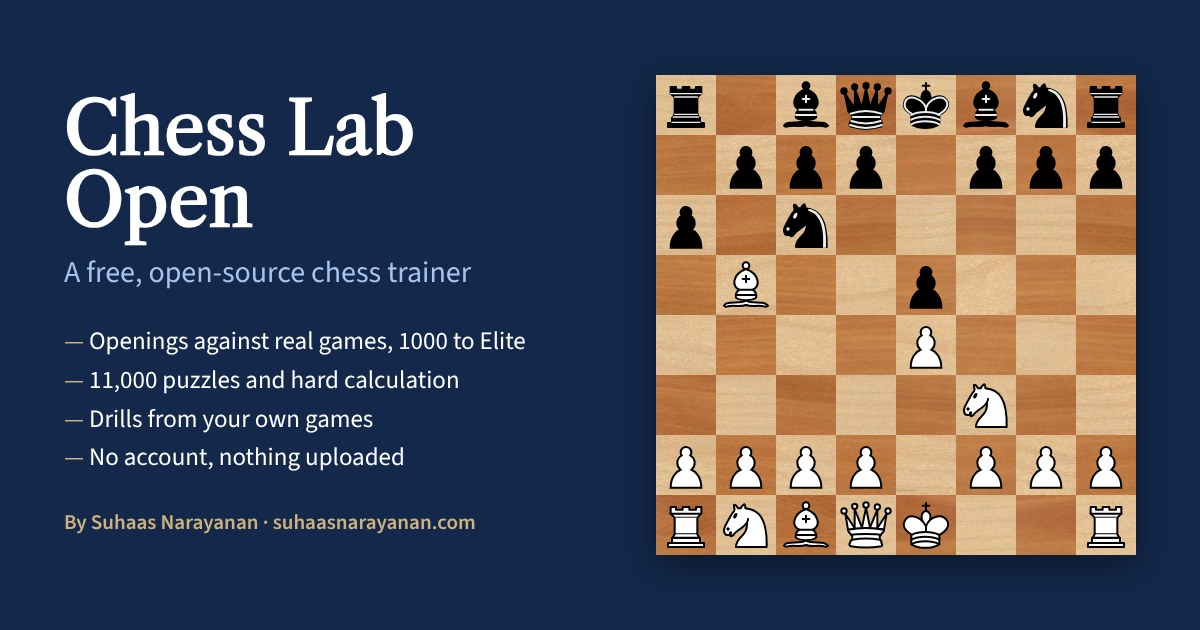
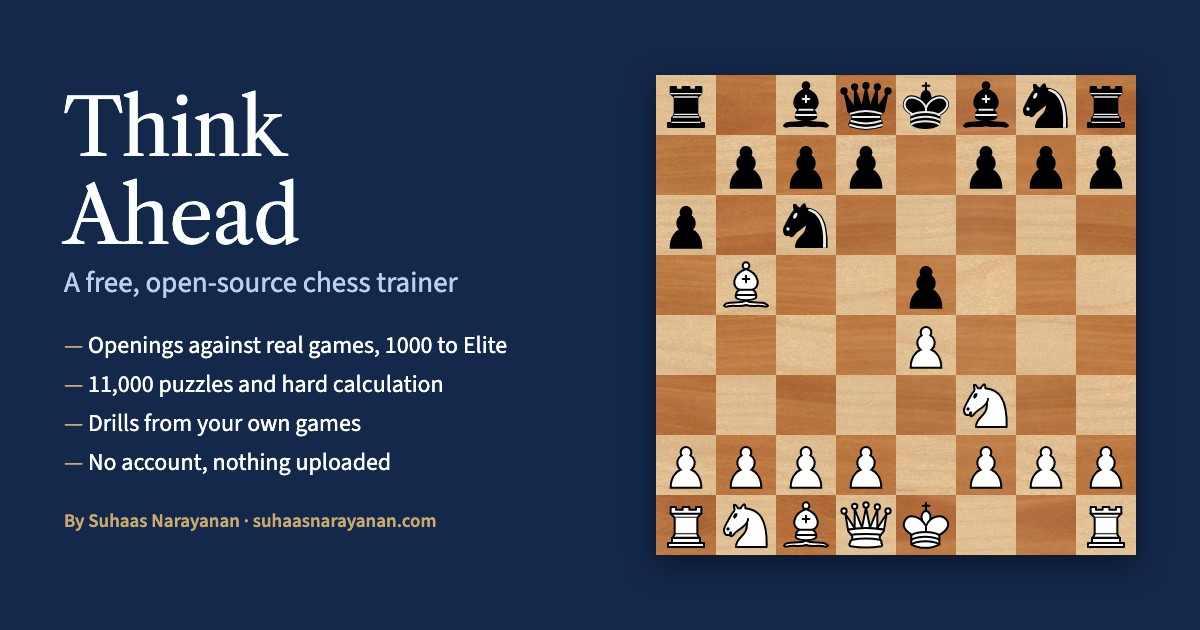
Rename the site to Think Ahead (what visitors see)
The page title, header, welcome card, tab titles, About and privacy
policy, share tags and link-preview image, the Play PGN tags, the import
error, README/PARITY, and the tests that check the name.

Kept: every storage key and the export format (_app 'chess-lab-open',
clo-* keys, the export filename), the /chess-lab-open/ URL, the repo
and workflow names, build_watch_sets output, LICENSE/CREDITS notices,
and mentions of the private Chess Lab. The iPhone backup name already
comes from js/native.js ('Think Ahead'), so it doesn't move.

diff --git a/site/index.html b/site/index.html
@@ -3,22 +3,22 @@
 <head>
 <meta charset="utf-8">
 <meta name="viewport" content="width=device-width,initial-scale=1,viewport-fit=cover">
-<title>Chess Lab Open</title>
+<title>Think Ahead</title>
 <meta name="description" content="A free, open-source chess trainer: openings against real games from 1000 to Elite, 11,000 puzzles, hard calculation, and drills from your own Lichess or Chess.com games. No account, nothing uploaded. By Suhaas Narayanan.">
 <link rel="canonical" href="https://suhaasnarayanan.com/chess-lab-open/">
 <link rel="icon" type="image/svg+xml" href="assets/pieces/cburnett/wN.svg">
 <meta name="theme-color" content="#13284a">
 <meta property="og:type" content="website">
 <meta property="og:site_name" content="Suhaas Narayanan">
-<meta property="og:title" content="Chess Lab Open — a free, open-source chess trainer">
+<meta property="og:title" content="Think Ahead — a free, open-source chess trainer">
 <meta property="og:description" content="Openings against real games from 1000 to Elite, 11,000 puzzles, hard calculation, and drills from your own games. No account, nothing uploaded.">
 <meta property="og:url" content="https://suhaasnarayanan.com/chess-lab-open/">
 <meta property="og:image" content="https://suhaasnarayanan.com/chess-lab-open/assets/og.jpg">
 <meta property="og:image:width" content="1200">
 <meta property="og:image:height" content="630">
-<meta property="og:image:alt" content="Chess Lab Open: a chess board with the Ruy Lopez and a list of what the trainer does">
+<meta property="og:image:alt" content="Think Ahead: a chess board with the Ruy Lopez and a list of what the trainer does">
 <meta name="twitter:card" content="summary_large_image">
-<meta name="twitter:title" content="Chess Lab Open — a free, open-source chess trainer">
+<meta name="twitter:title" content="Think Ahead — a free, open-source chess trainer">
 <meta name="twitter:description" content="Openings against real games, 11,000 puzzles, hard calculation and drills from your own games. No account.">
 <meta name="twitter:image" content="https://suhaasnarayanan.com/chess-lab-open/assets/og.jpg">
 <link rel="stylesheet" href="fonts.css?v=__V__">
@@ -34,7 +34,7 @@ try{ var t=(JSON.parse(localStorage.getItem('clo-settings')||'{}').theme)||'auto
 
 <header class="hero">
   <div class="inner">
-    <h1>Chess Lab Open</h1>
+    <h1>Think Ahead</h1>
     <p>A free, open-source chess trainer: openings against real games, tactics, calculation, and drills from your own
        Lichess or Chess.com games. It all runs in your browser; nothing is uploaded.
        By <a href="https://suhaasnarayanan.com/chess">Suhaas Narayanan</a>
@@ -55,7 +55,7 @@ try{ var t=(JSON.parse(localStorage.getItem('clo-settings')||'{}').theme)||'auto
       <button class="linkbtn welcomex" id="welcome-x" aria-label="Close">Close ✕</button>
       <span class="label">New here?</span>
       <h2 style="margin:6px 0 8px">Train on your own games</h2>
-      <p class="welcomelead">Chess Lab Open turns your games into a report card and drills, with puzzles, openings and endgames around them. No account, and nothing is uploaded.</p>
+      <p class="welcomelead">Think Ahead turns your games into a report card and drills, with puzzles, openings and endgames around them. No account, and nothing is uploaded.</p>
       <div class="btns" style="margin-top:10px"><a class="btn primary" href="#analyze" id="welcome-go">Analyze my games</a><button class="btn" id="welcome-try" type="button">Just try a puzzle</button></div>
       <details class="welcomemore" id="welcome-more"><summary>How it works</summary>
       <ul class="welcomelist">
@@ -78,7 +78,7 @@ try{ var t=(JSON.parse(localStorage.getItem('clo-settings')||'{}').theme)||'auto
       <div class="label tvlabel">Up next</div>
       <div class="list long" id="td-list"></div>
       <p class="note" id="td-note" style="margin:10px 0 0"></p>
-      <p class="note" style="margin:8px 0 0"><button class="linkbtn" id="td-help" type="button">How Chess Lab Open works</button></p>
+      <p class="note" style="margin:8px 0 0"><button class="linkbtn" id="td-help" type="button">How Think Ahead works</button></p>
     </div>
     <div class="panel">
       <div class="boardwrap" id="td-wrap">
@@ -674,15 +674,15 @@ try{ var t=(JSON.parse(localStorage.getItem('clo-settings')||'{}').theme)||'auto
 <section id="about" hidden>
   <div class="aboutwrap">
   <div class="card">
-    <h2>About Chess Lab Open</h2>
+    <h2>About Think Ahead</h2>
     <p>A free, open-source chess trainer: openings against real games, tactics, calculation, blind tactics, endgames, and
-       drills from your own games. It runs entirely in your browser<span class="app-only"> (here, in the Think Ahead app on
+       drills from your own games. It runs entirely in your browser<span class="app-only"> (here, in the app on
        your iPhone and Apple Watch)</span>. There is no account and no server of ours: the site is a set of files.</p>
   </div>
   <div class="card" id="ab-privacy">
     <h2>Privacy</h2>
-    <p class="note" style="margin-top:0">In effect since 18 November 2026. This is the privacy policy of Chess Lab Open and of
-       the Think Ahead app for iPhone and Apple Watch.</p>
+    <p class="note" style="margin-top:0">In effect since 18 November 2026. This is the privacy policy of Think Ahead: the website and
+       the app for iPhone and Apple Watch.</p>
     <h3>We collect nothing</h3>
     <p>There are no accounts, no analytics, no ads, no tracking and no cookies of ours. We have no server that receives
        anything from you, so we never see your games, your progress or any other data.</p>
@@ -721,7 +721,7 @@ try{ var t=(JSON.parse(localStorage.getItem('clo-settings')||'{}').theme)||'auto
     <div class="tablewrap"><table class="rtable">
       <thead><tr><th>Part</th><th>Licence</th></tr></thead>
       <tbody>
-        <tr><td>Chess Lab Open's code</td><td>MIT</td></tr>
+        <tr><td>Think Ahead's website code</td><td>MIT</td></tr>
         <tr class="app-only"><td>The Think Ahead app (iPhone and Apple Watch)</td><td>GPL-3.0-or-later</td></tr>
         <tr><td>Stockfish 18 (the engine)</td><td>GPL-3.0</td></tr>
         <tr><td>chess.js 0.10.3</td><td>BSD-2-Clause</td></tr>
@@ -736,8 +736,8 @@ try{ var t=(JSON.parse(localStorage.getItem('clo-settings')||'{}').theme)||'auto
   </div>
   <div class="card" id="ab-source">
     <h2>Source</h2>
-    <p>Chess Lab Open: <a href="https://github.com/suhaasnara/chess-lab-open">github.com/suhaasnara/chess-lab-open</a>.</p>
-    <p class="app-only">The Think Ahead app: <a href="https://github.com/suhaasnara/chess-lab-open-app">github.com/suhaasnara/chess-lab-open-app</a>.</p>
+    <p>The website: <a href="https://github.com/suhaasnara/chess-lab-open">github.com/suhaasnara/chess-lab-open</a>.</p>
+    <p class="app-only">The iPhone and Apple Watch app: <a href="https://github.com/suhaasnara/chess-lab-open-app">github.com/suhaasnara/chess-lab-open-app</a>.</p>
     <p class="note">Made by <a href="https://suhaasnarayanan.com/chess">Suhaas Narayanan</a>.</p>
   </div>
   </div>
@@ -747,11 +747,11 @@ try{ var t=(JSON.parse(localStorage.getItem('clo-settings')||'{}').theme)||'auto
 
 <footer>
   <div class="inner">
-    Chess Lab Open &mdash; MIT-licensed code by <a href="https://suhaasnarayanan.com/chess">Suhaas Narayanan</a>.
+    Think Ahead &mdash; MIT-licensed code by <a href="https://suhaasnarayanan.com/chess">Suhaas Narayanan</a>.
     Pieces: cburnett (GPLv2+) &middot; board: Lichess maple (AGPLv3+) &middot; puzzles &amp; evals: Lichess (CC0) &middot;
     engine: Stockfish (GPL-3.0) &middot; <a href="https://github.com/suhaasnara/chess-lab-open">source &amp; credits</a> &middot;
     <a href="#about">About &amp; privacy</a> &middot;
-    <button class="linkbtn" id="help-foot" type="button">How Chess Lab Open works</button>.
+    <button class="linkbtn" id="help-foot" type="button">How Think Ahead works</button>.
   </div>
 </footer>
 

diff --git a/tests/run.js b/tests/run.js
@@ -547,7 +547,7 @@ section('t19: first-visit guide and link preview');
   { const d=w.document, more=d.getElementById('welcome-more');
     assert(more&&!more.open&&more.querySelectorAll('li').length>=6&&!el.querySelector(':scope > ul'),'the long list is folded away behind "How it works"');
     assert(d.getElementById('welcome-go').getAttribute('href')==='#analyze'&&/Just try a puzzle/.test(d.getElementById('welcome-try').textContent)&&el.querySelector('.welcomelead').textContent.length<200,'the card: a short lead, Analyze my games, Just try a puzzle');
-    d.getElementById('td-help').click(); assert(more.open,'"How Chess Lab Open works" opens the whole list') ; more.open=false }
+    d.getElementById('td-help').click(); assert(more.open,'"How Think Ahead works" opens the whole list') ; more.open=false }
   w.document.getElementById('welcome-ok').click();
   assert(el.hidden&&w.localStorage.getItem('clo-welcome')==='seen','Got it hides it and remembers');
   w.document.getElementById('help-open').click(); await sleep(60);
@@ -559,7 +559,7 @@ section('t19: first-visit guide and link preview');
   assert(w.localStorage.getItem('clo-welcome')===null,'(nothing written: it is worked out from their progress)');
   const meta=n=>{ const m=w.document.querySelector(`meta[property="${n}"],meta[name="${n}"]`); return m&&m.content };
   assert(/^https:\/\/suhaasnarayanan\.com\/chess-lab-open\/assets\/og\.jpg$/.test(meta('og:image'))&&fs.existsSync(path.join(H.SITE,'assets','og.jpg')),'og:image points at the preview image, which exists');
-  assert(meta('twitter:card')==='summary_large_image'&&/Chess Lab Open/.test(meta('og:title')),'Open Graph and Twitter tags are set');
+  assert(meta('twitter:card')==='summary_large_image'&&/Think Ahead/.test(meta('og:title')),'Open Graph and Twitter tags are set');
 }
 
 section('t20: Progress charts');

diff --git a/site/js/router.js b/site/js/router.js
@@ -28,7 +28,7 @@ const ENGINE_FIRST=['drills','play','guess','calc'];
 function engineFor(v){ if(ENGINE_FIRST.includes(v)) SharedEngine.start() }
 document.addEventListener('pointerdown',e=>{ const b=e.target.closest&&e.target.closest('#today .board'); if(b&&!b.closest('#o-board')) SharedEngine.start() },true);
 function onShow(v){
-  const h=$('view-title'); if(h){ h.textContent=v==='today'?'':'Chess Lab Open: '+TITLES[v]; h.hidden=v==='today' }
+  const h=$('view-title'); if(h){ h.textContent=v==='today'?'':'Think Ahead: '+TITLES[v]; h.hidden=v==='today' }
   engineFor(v);
   if(v==='calc') CalcTab.ensure();
   if(v==='blind') BlindTab.show();   /* the set (about 1 MB) loads on first use; no engine on this tab */
@@ -59,5 +59,5 @@ document.addEventListener('click',e=>{   /* capture phase: the list re-renders o
 },true);
 OpeningsTab.init(); TacticsTab.init(); BlindTab.init(); CalcTab.init(); EndgamesTab.init(); TodayTab.init(); AnalyzeTab.init(); DrillsTab.init(); PlayTab.init(); GtmTab.init(); PlayersTab.init(); WatchTab.init(); BlunderCheckTab.init(); GameView.init(); ProgressTab.init(); SettingsTab.init();
 Router.start({views:Object.fromEntries(VIEWS.map(v=>[v,v==='game'?{el:v,nav:'analyze'}:{el:v}])),fallback:'today',scrollTop:true,onShow,
-  title:v=>v==='today'?'Chess Lab Open':TITLES[v]+' · Chess Lab Open'});
+  title:v=>v==='today'?'Think Ahead':TITLES[v]+' · Think Ahead'});
 })();

diff --git a/site/js/play.js b/site/js/play.js
@@ -152,7 +152,7 @@ async function hint(){
   else { board.setHint(u.slice(0,2),u.slice(2,4)); status('warn','Hint: '+sanOf(S.g.fen(),u),`Hints this game: ${S.hints}.`) }
 }
 const numbered=(fen,sans)=>{ const t=(fen||'x w - - 0 1').split(' '); let n=+t[5]||1, w=t[1]!=='b'; return sans.map((s,i)=>{ const x=w?n+'. '+s:(i===0?n+'... '+s:s); if(!w) n++; w=!w; return x }).join(' ') };
-function pgn(){ const d=new Date(); const tags=[['Event','Chess Lab Open: Play'],['Site','Chess Lab Open'],['Date',d.toISOString().slice(0,10).replace(/-/g,'.')],
+function pgn(){ const d=new Date(); const tags=[['Event','Think Ahead: Play'],['Site','Think Ahead'],['Date',d.toISOString().slice(0,10).replace(/-/g,'.')],
     ['White',S.me==='w'?'Me':'Stockfish '+S.elo],['Black',S.me==='b'?'Me':'Stockfish '+S.elo],['Result',S.result||'*']].concat(S.start?[['SetUp','1'],['FEN',S.start]]:[]);
   return tags.map(([k,v])=>`[${k} "${v}"]`).join('\n')+'\n\n'+numbered(S.start,S.moves)+' '+(S.result||'*') }
 async function reviewLichess(){ const r=await Net.review(pgn()); if(!r.ok) status('warn','Lichess import didn’t work here.',(r.copied?'The PGN is copied: paste it on the page that opened. ':'Copy the PGN below and paste it on lichess.org/paste. ')+r.why) }

diff --git a/site/js/shared.js b/site/js/shared.js
@@ -37,7 +37,7 @@ window.Store=(()=>{
   const del=k=>{ try{ localStorage.removeItem(PRE+k) }catch(e){} };
   const keys=()=>{ const out=[]; try{ for(let i=0;i<localStorage.length;i++){ const k=localStorage.key(i); if(k&&k.startsWith(PRE)) out.push(k.slice(PRE.length)) } }catch(e){} return out };
   const exportAll=()=>{ const o={_app:'chess-lab-open',_v:1,_t:new Date().toISOString()}; for(const k of keys()) o[k]=get(k); return o };
-  const importAll=o=>{ if(!o||o._app!=='chess-lab-open') throw new Error('Not a Chess Lab Open export.');
+  const importAll=o=>{ if(!o||o._app!=='chess-lab-open') throw new Error('Not a Think Ahead export.');
     let n=0; for(const k in o){ if(k[0]==='_') continue; put(k,o[k]); n++ } migrate(); return n };   /* an old export can hold a pack's keys */
   /* put that says whether it worked (false when this browser's storage is full) */
   const tryPut=(k,v)=>{ try{ localStorage.setItem(PRE+k,JSON.stringify(v)); return true }catch(e){ return false } };

diff --git a/site/js/today.js b/site/js/today.js
@@ -181,7 +181,7 @@ function welcome(show){
   const el=$('welcome'); if(!el) return;
   let seen=false; try{ seen=localStorage.getItem('clo-welcome')==='seen'||hasProgress() }catch(e){}
   el.hidden=show===true?false:seen;
-  const more=$('welcome-more'); if(more) more.open=show===true;   /* asked for ("How Chess Lab Open works"): the whole list; a first visit: three lines and two buttons */
+  const more=$('welcome-more'); if(more) more.open=show===true;   /* asked for ("How Think Ahead works"): the whole list; a first visit: three lines and two buttons */
   /* returning visitors get Chess Lab's board page (no big header on Today); the guide brings it back */
   document.body.classList.toggle('welcomed',el.hidden);
 }

diff --git a/site/js/config.js b/site/js/config.js
@@ -2,7 +2,7 @@
    The private Chess Lab has its own (same shape); the shared code reads whichever site it is running on. */
 'use strict';
 Site.define({
-  id:'open', name:'Chess Lab Open',
+  id:'open', name:'Think Ahead',
   tabs:{
     main:[['today','Today'],['openings','Openings'],['drills','Drills'],['tactics','Tactics'],['analyze','Analyze my games','Report card and drills from your own games'],['progress','Progress']],
     extra:[   /* grouped, two columns (shared nav.js, 13 Nov 2026) */

diff --git a/README.md b/README.md
@@ -1,4 +1,4 @@
-# Chess Lab Open
+# Think Ahead
 
 An open-source, bring-your-own-data chess trainer by
 [Suhaas Narayanan](https://suhaasnarayanan.com/chess)
@@ -8,6 +8,9 @@ It is the public version of his private training site, Chess Lab, with none of
 the private data: everything here runs on open databases and on games you fetch
 yourself from your own accounts, entirely in your browser. No server, no
 accounts, no uploads: progress lives in localStorage with JSON export/import.
+
+It was called Chess Lab Open until November 2026. The repository name and the web address
+(https://suhaasnarayanan.com/chess-lab-open/) stay the same, so links and saved progress keep working.
 
 ## What it does
 
@@ -158,7 +161,7 @@ node reader.js chromium    # the phone reader on iPhone 15 / SE sizes, and no re
 node keys.js firefox       # the arrow keys through side lines (← → ↓ ↑), pressed for real
 ```
 
-The code both Chess Lab sites run lives in `site/shared/` (see PARITY.md); the private kit pulls a pinned copy.
+The code this site and the private Chess Lab both run lives in `site/shared/` (see PARITY.md); the private kit pulls a pinned copy.
 
 CI also runs `tools/privacy_guard.py`, which fails the build if anything from
 the private kit (course filenames, personal PGNs, opponent names) ever shows up

diff --git a/PARITY.md b/PARITY.md
@@ -1,6 +1,6 @@
-# Chess Lab Open and the private Chess Lab: what matches, what differs, and the plan
+# Think Ahead (Chess Lab Open) and the private Chess Lab: what matches, what differs, and the plan
 
-Chess Lab Open is the public version of Suhaas's private training site, Chess Lab. The two should feel like the
+Chess Lab Open (shown to visitors as **Think Ahead** since 22 Nov 2026; "Open" below means this site) is the public version of Suhaas's private training site, Chess Lab. The two should feel like the
 same tool. The only intended difference is the data: the private site is built around his own games, course PGNs,
 calculation books and opponents, and none of that can be published. Everything that works on open data, or on the
 visitor's own data, belongs in both.

diff --git a/CLAUDE.md b/CLAUDE.md
@@ -1,4 +1,7 @@
-# Chess Lab Open (public)
+# Chess Lab Open (public), shown to visitors as "Think Ahead"
+
+Since 22 Nov 2026 the site's visible name is **Think Ahead** (same as the iPhone app; not final until App Store Connect
+accepts it). The repo, the URL path `/chess-lab-open/`, storage keys and the backup format keep the old name.
 
 `~/chess-lab-open`, remote `github.com/suhaasnara/chess-lab-open` (**public**). Published by GitHub Pages at
 https://suhaasnarayanan.com/chess-lab-open/. This is the open-source (MIT), bring-your-own-data version of Suhaas's
